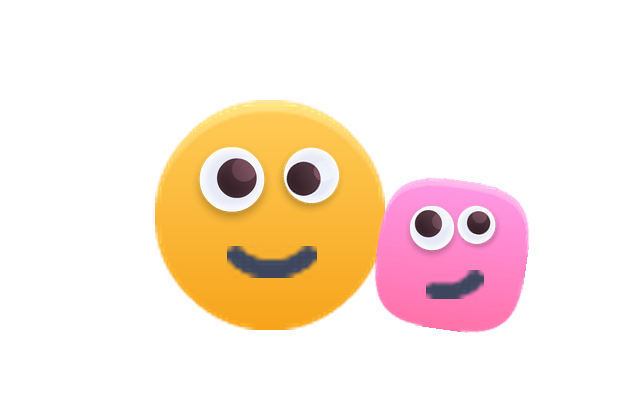
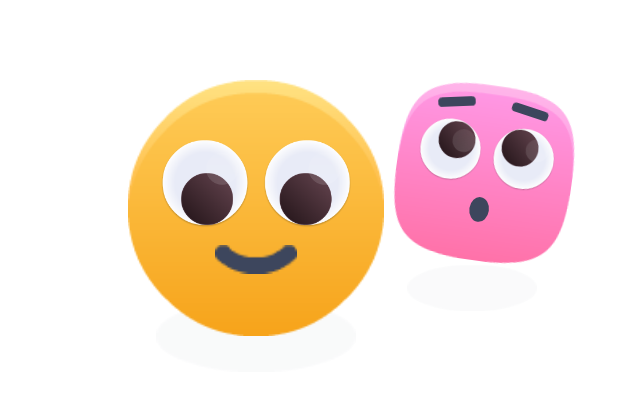
Googly Faces: the dots answer each tap, eyes look at a tap, a tile drawn by the game
From the owner's play-through:
- The dot a tap fills swells to about 2.5x and pushes the row aside, then
  settles, so each tap visibly changes the counter. The row keeps clear of
  the back and sound buttons.
- A tap on the background makes every pupil look at it for about a second
  (a spring towards that side of the rim takes gravity's place), then they
  roll loose again. Tapping a face lets go at once.
- The landing tile is drawn by the game's own code (window.googly.pose and
  scripts/make-tile.mjs), so it shows the same faces as the game.

Tests cover the swelling dot and the eyes looking up at a tap.

Changed region(s): [[0.1875, 0.18, 0.9062, 0.84], [0.3125, 0.6, 0.5, 0.72]]

diff --git a/googly-faces/game.js b/googly-faces/game.js
@@ -2,8 +2,9 @@
 //
 // Tap only, no fail state, no reading. Faces pop up around the screen; a tap makes one jump with a
 // squash and stretch, change its expression and make a funny sound, then it ducks away and another
-// appears. Each round fills a row of dots at the top, one per face tapped, and ends with a small
-// party and a play-again button.
+// appears. Each round fills a row of dots at the top, one per face tapped (the new dot swells and
+// shoves the others aside for a moment, so a child sees the row answer), and ends with a small
+// party and a play-again button. A tap on the background makes every eye look at it for a moment.
 //
 // The hook is the pupils. Each one is a little disc rolling loose inside its eye, simulated in
 // screen space at 240 steps a second: it feels gravity (down, or the way the device tilts), the
@@ -128,6 +129,13 @@ const PUPIL_BOUNCE = 0.45; // restitution off the rim
 const MS2_TO_G = PUPIL_G / 9.81; // device acceleration (m/s²) into the same units
 
 const HOP_G = 18; // a face's own gravity, in body sizes per s²
+
+const PIP_GROW = 1.3; // a dot just filled swells to about 1 + this times its size, then settles
+
+const LOOK_HOLD = 0.9; // after a tap on the background, the eyes look at it this long, s
+const LOOK_FADE = 0.35; // then let go over this long, back to rolling loose
+const LOOK_K = 600; // how hard a pupil is pulled towards the look, per s²
+const LOOK_C = 30; // and its damping, per s (under critical, so it overshoots a little)
 
 const reduceMotion = window.matchMedia('(prefers-reduced-motion: reduce)').matches;
 
@@ -354,6 +362,7 @@ function spawnFace() {
 
 function tapFace(f) {
   if (f.phase === 'out') return;
+  look.t = Math.max(look.t, LOOK_HOLD); // the tapped face's eyes go loose again
   const first = !f.tapped;
   f.tapped = true;
   f.phase = f.party ? 'party' : 'react';
@@ -381,8 +390,11 @@ function tapFace(f) {
 
   if (first && !f.party && game.state === 'play') {
     game.taps++;
-    pips[game.taps - 1] = { color: COLORS[f.color], s: spring(0, 300, 12) };
-    pips[game.taps - 1].s.to = 1;
+    // The new dot swells, shoving its neighbours aside, then settles: the row visibly answers.
+    const pip = { color: COLORS[f.color], s: spring(0, 300, 12), pop: spring(0, 220, 13), t: 0 };
+    pip.s.to = 1;
+    pip.pop.to = 1;
+    pips[game.taps - 1] = pip;
     if (game.taps >= ROUND) endRound();
   }
 }
@@ -476,8 +488,22 @@ function stepFace(f, h) {
     e.wx = tmp.x;
     e.wy = tmp.y;
     // Forces in eye radii per s²: gravity, the eye's own acceleration felt backwards, a shake.
-    let fx = PUPIL_G * gravity.x + shake.x - ax / tmp.r;
-    let fy = PUPIL_G * gravity.y + shake.y - ay / tmp.r;
+    let fx = PUPIL_G * gravity.x + shake.x;
+    let fy = PUPIL_G * gravity.y + shake.y;
+    // While the eyes look at a tap, a spring towards the rim on that side takes gravity's place.
+    const w = look.t < LOOK_HOLD ? 1 : clamp(1 - (look.t - LOOK_HOLD) / LOOK_FADE, 0, 1);
+    if (w > 0) {
+      const dx = look.x - tmp.x;
+      const dy = look.y - tmp.y;
+      const dl = Math.hypot(dx, dy);
+      const reach = TRAVEL * clamp(dl / tmp.r, 0, 1); // a tap on the eye itself looks straight out
+      const tx = dl ? (dx / dl) * reach : 0;
+      const ty = dl ? (dy / dl) * reach : 0;
+      fx = fx * (1 - w) + w * (LOOK_K * (tx - e.px) - LOOK_C * e.pvx);
+      fy = fy * (1 - w) + w * (LOOK_K * (ty - e.py) - LOOK_C * e.pvy);
+    }
+    fx -= ax / tmp.r;
+    fy -= ay / tmp.r;
     const fm = Math.hypot(fx, fy);
     if (fm > 4000) {
       fx *= 4000 / fm;
@@ -556,6 +582,7 @@ function updateFace(f, dt) {
 // Gravity and shakes from the device, when it has motion sensors.
 
 const gravity = { x: 0, y: 1 };
+const look = { x: 0, y: 0, t: Infinity }; // where the eyes look after a tap on the background
 const tiltTarget = { x: 0, y: 1 };
 const shake = { x: 0, y: 0 };
 const shakeTarget = { x: 0, y: 0 };
@@ -684,6 +711,7 @@ function partyTime() {
 
 function updateGame(dt) {
   game.t += dt;
+  look.t += dt;
   const p = game.taps / ROUND;
 
   if (game.state === 'play') {
@@ -755,16 +783,16 @@ function tapAt(x, y) {
     tapFace(f);
     return;
   }
-  // An empty tap: a soft ring, and every pupil gives a little start.
+  // An empty tap: a soft ring, every face gives a little start, and every eye looks at the spot
+  // for a moment before rolling loose again.
   ripples.push({ x, y, t: 0 });
   play('boop', { rate: 1.15, gain: 0.35 });
+  look.x = x;
+  look.y = y;
+  look.t = 0;
   for (const o of faces) {
     const d = Math.hypot(o.x - x, o.y - o.s / 2 - y);
     const k = clamp(1 - d / (Math.max(W, H) * 0.7), 0.15, 1);
-    for (const e of o.eyes) {
-      e.pvx += ((o.x - x) / (d || 1)) * 4 * k;
-      e.pvy += ((o.y - o.s / 2 - y) / (d || 1)) * 4 * k - 1.5 * k;
-    }
     if (!o.airborne && o.phase !== 'out') o.tilt.v += clamp((o.x - x) / 200, -1, 1) * 2.5 * k;
   }
 }
@@ -875,17 +903,36 @@ function drawFace(f) {
   ctx.restore();
 }
 
-function drawPips() {
+// The row of dots at the top: where each sits and how big it is. A dot that has just filled is
+// wider, and the row spreads around it, so its neighbours move aside.
+function pipLayout() {
   const d = W < 360 ? 10 : 12;
-  const gap = W < 360 ? 6 : 8;
-  const total = ROUND * d + (ROUND - 1) * gap;
-  const x0 = W / 2 - total / 2 + d / 2;
-  const y = safe.t + 34;
+  const grow = reduceMotion ? PIP_GROW * 0.5 : PIP_GROW;
+  const sizes = [];
   for (let i = 0; i < ROUND; i++) {
-    const x = x0 + i * (d + gap);
+    const p = pips[i];
+    sizes.push(d * (1 + grow * (p ? Math.max(0, p.pop.x) : 0)));
+  }
+  const dots = sizes.reduce((a, b) => a + b, 0);
+  // Keep the row between the back and sound buttons: squeeze the gaps if a swell needs room.
+  const room = W - safe.l - safe.r - 2 * 76;
+  const gap = clamp((room - dots) / (ROUND - 1), 2, W < 360 ? 6 : 8);
+  let x = W / 2 - (dots + gap * (ROUND - 1)) / 2;
+  const y = safe.t + 34;
+  return sizes.map((size) => {
+    const c = { x: x + size / 2, y, r: size / 2 };
+    x += size + gap;
+    return c;
+  });
+}
+
+function drawPips() {
+  const row = pipLayout();
+  for (let i = 0; i < ROUND; i++) {
+    const { x, y, r } = row[i];
     ctx.fillStyle = palette['pip-empty'];
     ctx.beginPath();
-    ctx.arc(x, y, d / 2, 0, Math.PI * 2);
+    ctx.arc(x, y, r, 0, Math.PI * 2);
     ctx.fill();
     const p = pips[i];
     if (p) {
@@ -893,7 +940,7 @@ function drawPips() {
       if (game.state !== 'play') k *= 1 + 0.18 * Math.max(0, Math.sin(game.endT * 5 - i * 0.45));
       ctx.fillStyle = p.color;
       ctx.beginPath();
-      ctx.arc(x, y, Math.max(0, (d / 2) * k), 0, Math.PI * 2);
+      ctx.arc(x, y, Math.max(0, r * k), 0, Math.PI * 2);
       ctx.fill();
     }
   }
@@ -903,7 +950,9 @@ function draw() {
   ctx.setTransform(DPR, 0, 0, DPR, 0, 0);
   ctx.imageSmoothingEnabled = true;
   ctx.imageSmoothingQuality = 'high';
-  if (bg) ctx.drawImage(bg, 0, 0, W, H);
+  const posing = game.state === 'pose';
+  if (posing) ctx.clearRect(0, 0, W, H);
+  else if (bg) ctx.drawImage(bg, 0, 0, W, H);
 
   for (const r of ripples) {
     const k = r.t / 0.6;
@@ -918,7 +967,7 @@ function draw() {
 
   const order = faces.slice().sort((a, b) => a.y - b.y);
   for (const f of order) drawFace(f);
-  drawPips();
+  if (!posing) drawPips();
 }
 
 // ---------------------------------------------------------------------------------------------
@@ -929,8 +978,19 @@ let acc = 0;
 function frame(now) {
   const dt = last ? Math.min((now - last) / 1000, 1 / 20) : 1 / 60;
   last = now;
+  if (game.state === 'pose') {
+    draw();
+    requestAnimationFrame(frame);
+    return;
+  }
   updateGame(dt);
-  for (const p of pips) if (p) stepSpring(p.s, dt);
+  for (const p of pips) {
+    if (!p) continue;
+    stepSpring(p.s, dt);
+    stepSpring(p.pop, dt);
+    p.t += dt;
+    if (p.t > 0.3) p.pop.to = 0;
+  }
   acc += dt;
   while (acc >= STEP) {
     for (const f of faces) stepFace(f, STEP);
@@ -969,7 +1029,35 @@ window.googly = {
         squash: f.squash.x,
         pupils: f.eyes.map((e) => ({ x: e.px, y: e.py })),
       })),
+      pips: pipLayout().map((d, i) => ({ x: d.x, r: d.r, filled: !!pips[i] })),
     };
+  },
+  // For the landing tile (scripts/make-tile.mjs): stop the game and draw the given faces, still,
+  // on a clear background, so the tile shows exactly what the game draws.
+  pose(list) {
+    game.state = 'pose';
+    againBtn.hidden = true;
+    faces.length = 0;
+    ripples.length = 0;
+    pips = [];
+    for (const p of list) {
+      const f = createFace(p.x, p.y, p.size);
+      const L = LAYOUT[p.shape];
+      Object.assign(f, { color: p.color, shape: p.shape, mouth: p.mouth, flip: p.flip ?? 1, phase: 'pose' });
+      f.eyes = p.pupils.map((q, i) => ({
+        x: p.pupils.length === 1 ? 0 : i ? L.eyeX : -L.eyeX,
+        y: L.eyeY,
+        r: L.eyeR * (p.pupils.length === 1 ? 1.55 : 1),
+        px: q.x,
+        py: q.y,
+      }));
+      f.scale.x = 1;
+      f.hop = p.hop ?? 0;
+      f.tilt.x = p.tilt ?? 0;
+      f.open.x = p.mouth === 'o' ? 1 : 0;
+      f.browUp.x = p.brows ?? 0;
+      if (p.brow) f.brow = p.brow;
+    }
   },
 };
 

diff --git a/discussion/README.md b/discussion/README.md
@@ -183,3 +183,4 @@ Superseded by [the owner's direction](direction.md): start with 2D games, isomet
 - **2026-11-06:** hosting is Cloudflare (Workers static assets, connected through the Cloudflare GitHub app), which the owner chose for its preview link on every PR. The site stays plain HTML, CSS and JS with no build step, and sounds are MP3 because Safari doesn't play OGG.
 - **2026-11-06:** the site lives only at **https://games.meirmsn.dev**, a Cloudflare custom domain set for production and previews. Each PR's preview is at `<branch>.games.meirmsn.dev`. The workers.dev addresses are off, in the dashboard and in `wrangler.jsonc`, so there's one address and nobody installs a duplicate app.
 - **2026-11-06:** **Googly Faces** is the first playable game. It's drawn on one canvas with no library: the pupils are hand-rolled physics (gravity, the eye's own movement, bouncing off the rim and rolling to rest), and they follow the device's tilt where motion sensors are available. A round is twelve faces, counted by coloured dots rather than numbers, and ends with a small party and a play-again button. Its 22 short sounds are pops, boings, giggly squiggles, squeaks and a closing jingle, each played at a slightly varied pitch. The bodies use the pack's double-size PNGs, because the default ones look blurry on phone screens.
+- **2026-11-07:** after playing it, the owner asked for three changes to **Googly Faces**: the landing tile now shows faces drawn by the game itself (`scripts/make-tile.mjs`), so it looks like the game; a dot that fills swells and pushes the row aside before settling, so each tap visibly changes the counter without any explaining; and a tap on the background makes every eye look at it for about a second before rolling loose again.

diff --git a/README.md b/README.md
@@ -24,7 +24,7 @@ It's hosted on Cloudflare (Workers static assets, connected through the Cloudfla
 ## Adding a game
 
 1. Make its folder, e.g. `googly-faces/index.html`. Load `../shared/game-shell.css` and call `mountShell()` from `../shared/game-shell.js`, which adds the back button and sets up sound.
-2. On the landing page, turn its tile from `<article class="tile is-soon">` into `<a class="tile" href="googly-faces/">` and remove its "Coming soon" badge.
+2. On the landing page, turn its tile from `<article class="tile is-soon">` into `<a class="tile" href="googly-faces/">` and remove its "Coming soon" badge. Draw its tile picture from the game itself where you can, so they look alike: `node scripts/make-tile.mjs` does this for Googly Faces.
 3. Nothing to do in `sw.js`: a game's files are cached the first time it's played. Bump `VERSION` there only when you add, remove or rename a file in its `SHELL` list.
 4. Run `scripts/check-fast.sh` and `scripts/check-slow.sh`.
 
